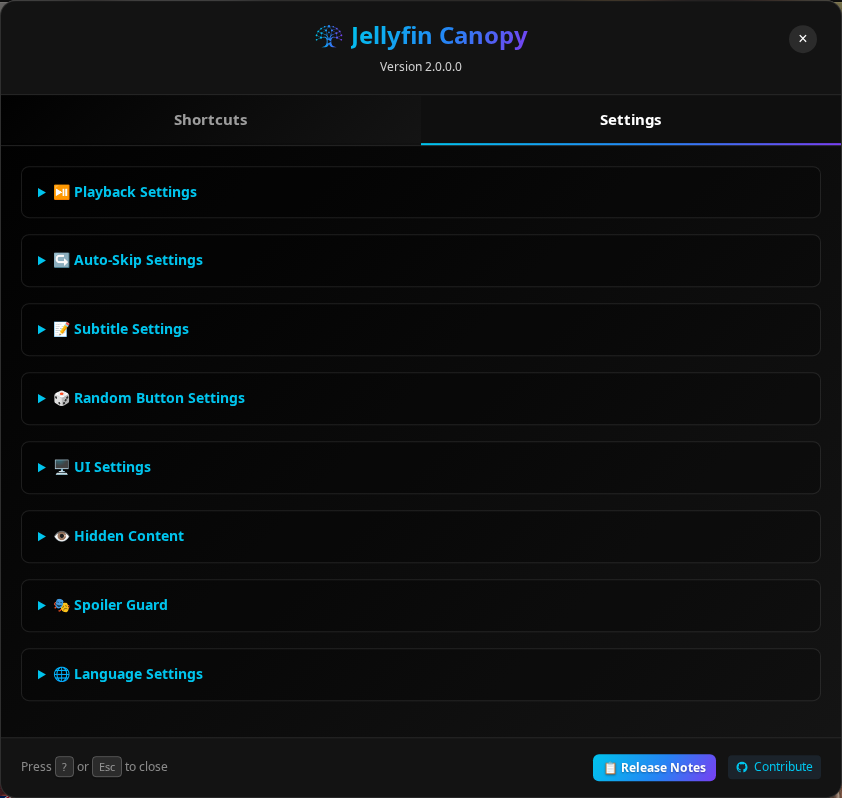
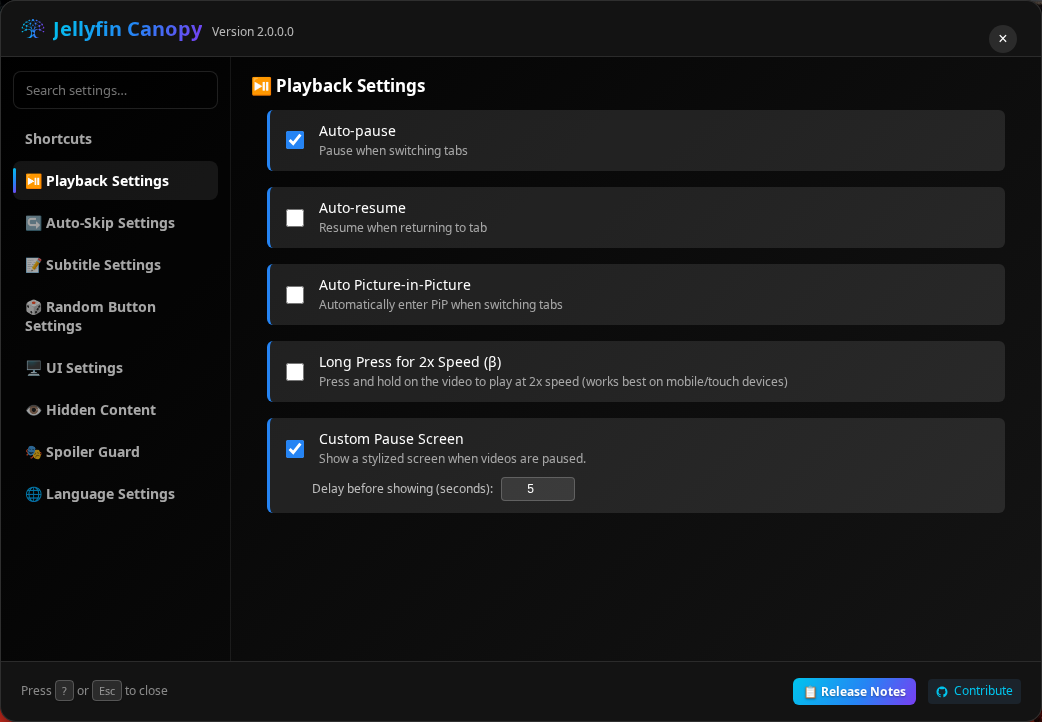
docs: panel screenshots + prose for the adaptive settings view
The settings screenshot now shows the Playback section pane; enhanced.md
describes the section nav (no more 'two tabs'); reference.md's custom-CSS
example targets the new nav/pane hooks instead of details/summary.

diff --git a/docs/reference.md b/docs/reference.md
@@ -384,16 +384,18 @@ To override the automatic theming or customize the panel further, use the select
         background: rgba(0, 0, 0, 0.3) !important;
     }
 
-    /* --- Section Headers & <details> Summary --- */
+    /* --- Section Headers --- */
     #jellyfin-canopy-panel h3,
-    #jellyfin-canopy-panel details summary {
+    #jellyfin-canopy-panel .jc-pane-title {
         color: #00a4dc !important;
     }
 
-    /* --- Collapsible <details> Sections --- */
-    #jellyfin-canopy-panel details {
-        background-color: rgba(0, 0, 0, 0.2) !important;
-        border: 1px solid rgba(125, 150, 175, 0.2) !important;
+    /* --- Section Nav & Panes --- */
+    #jellyfin-canopy-panel .tab-button.active {
+        background-color: rgba(0, 164, 220, 0.12) !important;
+    }
+    #jellyfin-canopy-panel .jc-pane {
+        background-color: transparent !important;
     }
 
     /* --- Keyboard Key Styling (<kbd>) --- */

diff --git a/docs/enhanced.md b/docs/enhanced.md
@@ -15,12 +15,12 @@ The Enhanced Panel is your control center. It's where you turn features on and o
 - Press `?` anywhere in the web client.
 - Click **Jellyfin Canopy** in the sidebar.
 
-![Enhanced panel — Settings tab overview](images/enhanced-panel-settings.png)
+![Enhanced panel — settings sections](images/enhanced-panel-settings.png)
 
-The panel has two tabs:
+The panel is a settings view with a section list on the left (full-screen with tap-through sections on phones) and a search box that filters the sections:
 
 - **Shortcuts** — customize the keyboard shortcuts (see [Advanced keyboard shortcuts](#advanced-keyboard-shortcuts)).
-- **Settings** — enable or disable features and adjust positions, sizes, colors, and modes.
+- **Playback, Auto-Skip, Subtitles, Random Button, UI, Hidden Content, Spoiler Guard, Language** — enable or disable features and adjust positions, sizes, colors, and modes, one section at a time.
 
 Toggling a feature applies **immediately** — no restart, no page reload. The toggles you'll find here include Quality Tags, Genre Tags, Language Tags, Rating Tags, People Tags, Pause Screen, Auto-skip Intros, Auto-skip Outros, Auto Picture-in-Picture, Show Watch Progress, Show File Sizes, Show Audio Languages, and more.
 